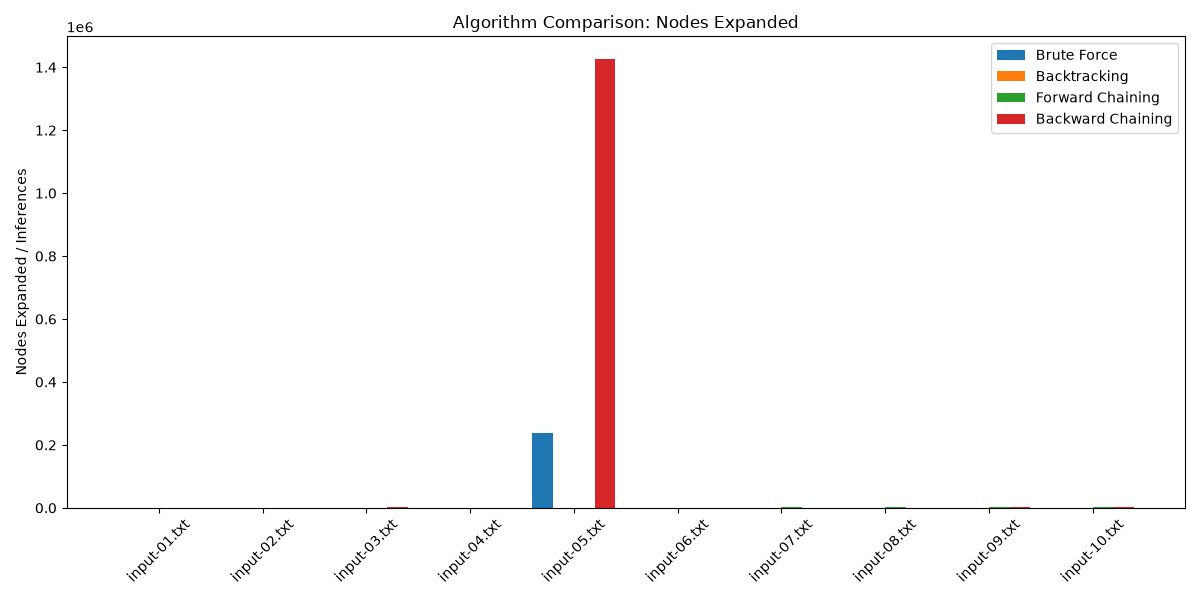
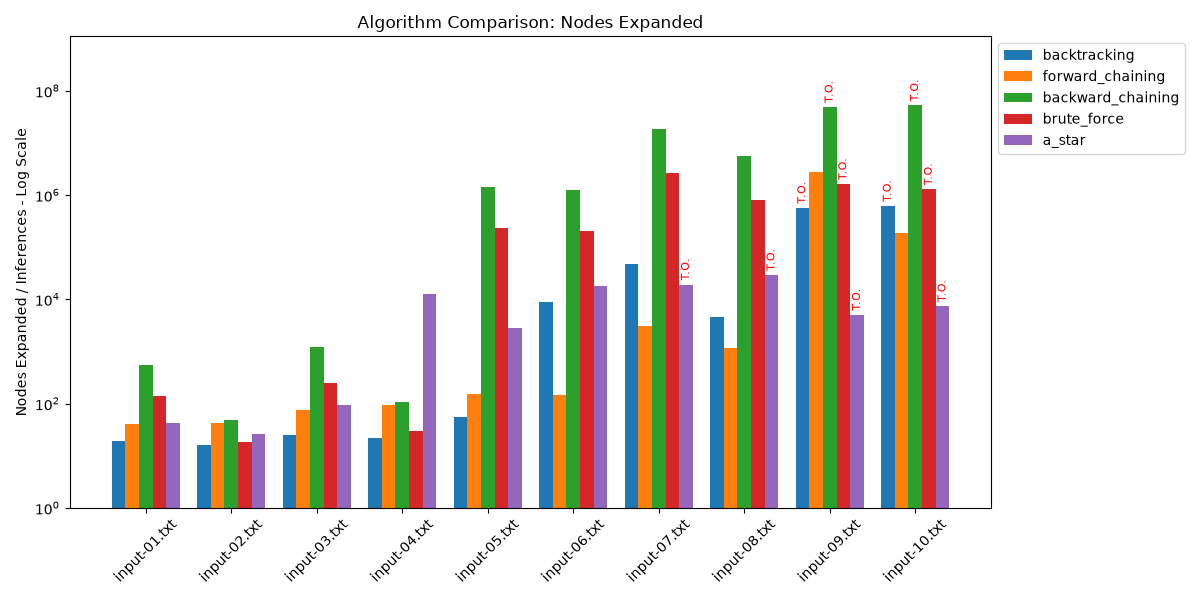
adjust plot benchmark

diff --git a/report/plot_benchmarks.py b/report/plot_benchmarks.py
@@ -9,7 +9,8 @@ from main import compare_all_algorithms
 
 def main():
     print("Running benchmarks to generate charts...")
-    results = compare_all_algorithms('../Source/Inputs', '../Source/Outputs')
+    timeout_limit = 30
+    results = compare_all_algorithms('../Source/Inputs', '../Source/Outputs', timeout_seconds=timeout_limit)
     
     if not results:
         print("No results found.")
@@ -19,14 +20,22 @@ def main():
     test_cases = sorted(list(set([r['input_file'][-12:] for r in results]))) # input-01.txt, etc.
     algo_names = list(set([r['algorithm'].split(' (')[0] for r in results]))
     
-    algorithms = {algo: {'time': [0.0]*len(test_cases), 'nodes': [0]*len(test_cases)} for algo in algo_names}
+    algorithms = {algo: {'time': [0.0]*len(test_cases), 'nodes': [0]*len(test_cases), 'timeout': [False]*len(test_cases)} for algo in algo_names}
     tc_to_idx = {tc: i for i, tc in enumerate(test_cases)}
     
     for r in results:
         algo = r['algorithm'].split(' (')[0]
         idx = tc_to_idx[r['input_file'][-12:]]
-        algorithms[algo]['time'][idx] = r['time']
-        algorithms[algo]['nodes'][idx] = r['nodes_expanded']
+        
+        algorithms[algo]['time'][idx] = r.get('time', 0.0)
+        
+        nodes = r.get('nodes_expanded', 0)
+        try:
+            nodes_val = int(float(nodes))
+        except (ValueError, TypeError):
+            nodes_val = 1
+        algorithms[algo]['nodes'][idx] = nodes_val
+        algorithms[algo]['timeout'][idx] = r.get('is_timeout', False)
 
     x = np.arange(len(test_cases))
     width = 0.8 / len(algorithms) if algorithms else 0.2
@@ -35,13 +44,29 @@ def main():
     fig, ax = plt.subplots(figsize=(12, 6))
     for i, (algo, data) in enumerate(algorithms.items()):
         offset = (i - len(algorithms)/2 + 0.5) * width
-        ax.bar(x + offset, data['time'], width, label=algo)
+        plot_time = [max(1e-4, t) for t in data['time']]
+        bars = ax.bar(x + offset, plot_time, width, label=algo)
         
-    ax.set_ylabel('Execution Time (seconds)')
-    ax.set_title('Algorithm Comparison: Execution Time')
+        # Add timeout indicator
+        for j, is_to in enumerate(data['timeout']):
+            if is_to:
+                ax.text(x[j] + offset, plot_time[j] * 1.2, 'T.O.', ha='center', va='bottom', fontsize=8, color='red', rotation=90)
+                
+    ax.set_yscale('log')
+    
+    # Get current ymax and increase it by a factor of 10 to leave space for T.O. tags
+    ymin, ymax = ax.get_ylim()
+    ax.set_ylim(bottom=1e-4, top=ymax * 10)
+    
+    ax.set_ylabel('Execution Time (seconds) - Log Scale')
+    ax.set_title(f'Algorithm Comparison: Execution Time (Timeout: {timeout_limit}s)')
     ax.set_xticks(x)
     ax.set_xticklabels(test_cases, rotation=45)
-    ax.legend()
+    ax.legend(loc='upper left', bbox_to_anchor=(1, 1))
+    
+    # Add a line for timeout limit
+    ax.axhline(y=timeout_limit, color='r', linestyle='--', alpha=0.5, label='Timeout Limit')
+    
     plt.tight_layout()
     plt.savefig('time_benchmark.png')
     print("Saved time_benchmark.png")
@@ -50,13 +75,24 @@ def main():
     fig, ax = plt.subplots(figsize=(12, 6))
     for i, (algo, data) in enumerate(algorithms.items()):
         offset = (i - len(algorithms)/2 + 0.5) * width
-        ax.bar(x + offset, data['nodes'], width, label=algo)
+        plot_nodes = [max(1, n) for n in data['nodes']]
+        bars = ax.bar(x + offset, plot_nodes, width, label=algo)
         
-    ax.set_ylabel('Nodes Expanded / Inferences')
+        for j, is_to in enumerate(data['timeout']):
+            if is_to:
+                ax.text(x[j] + offset, plot_nodes[j] * 1.2, 'T.O.', ha='center', va='bottom', fontsize=8, color='red', rotation=90)
+
+    ax.set_yscale('log')
+    
+    # Get current ymax and increase it by a factor of 10 to leave space for T.O. tags
+    ymin, ymax = ax.get_ylim()
+    ax.set_ylim(bottom=1, top=ymax * 10)
+    
+    ax.set_ylabel('Nodes Expanded / Inferences - Log Scale')
     ax.set_title('Algorithm Comparison: Nodes Expanded')
     ax.set_xticks(x)
     ax.set_xticklabels(test_cases, rotation=45)
-    ax.legend()
+    ax.legend(loc='upper left', bbox_to_anchor=(1, 1))
     plt.tight_layout()
     plt.savefig('nodes_benchmark.png')
     print("Saved nodes_benchmark.png")